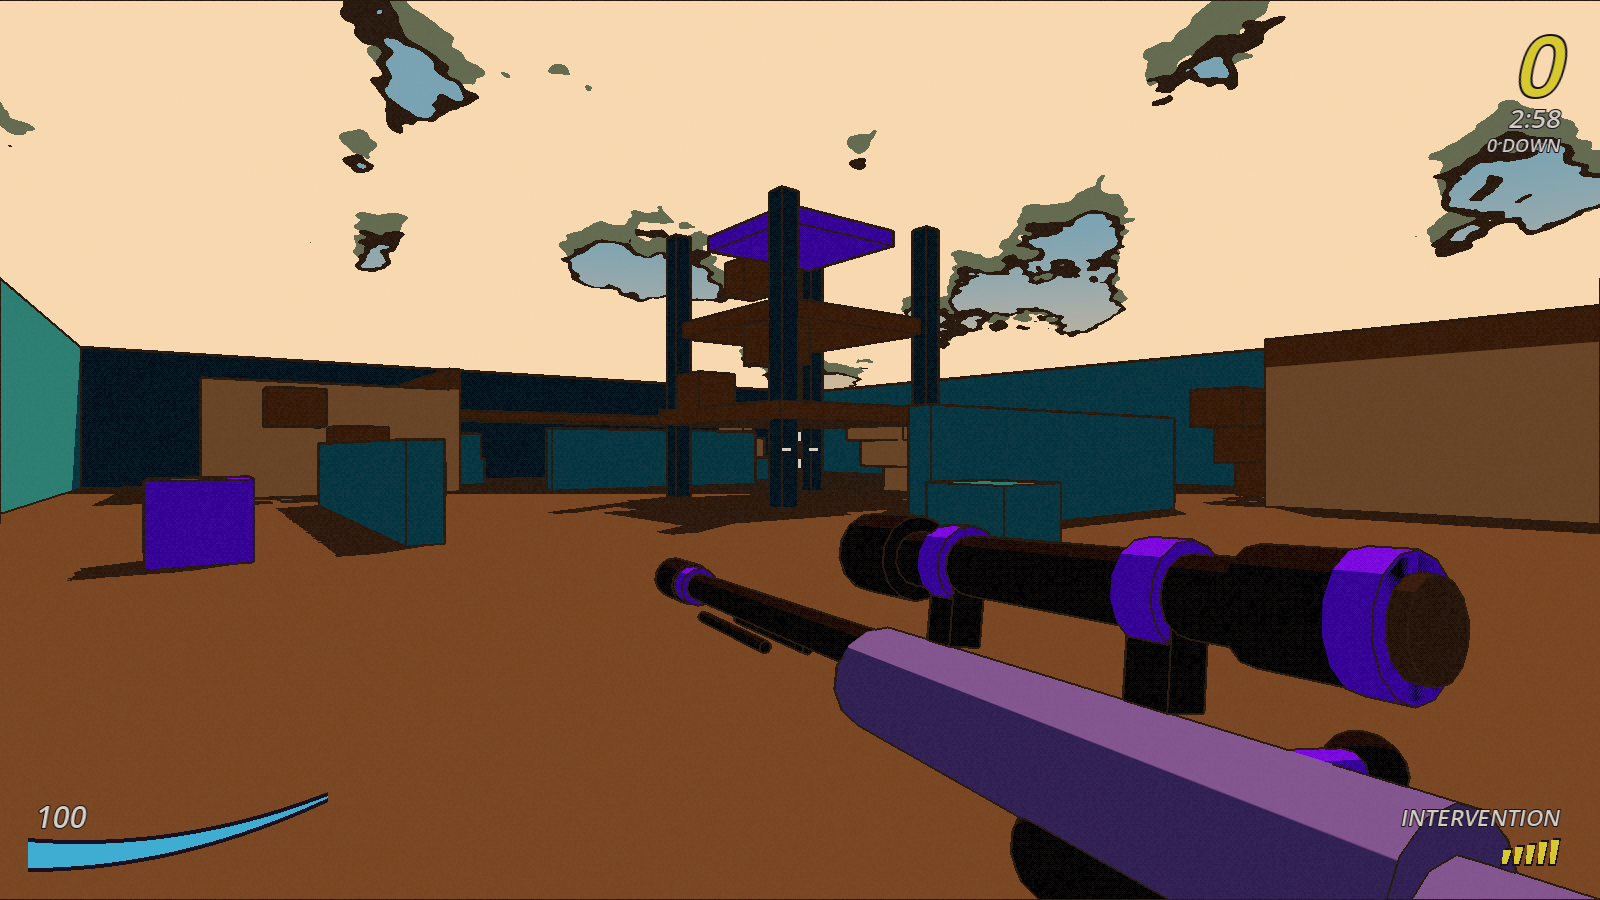
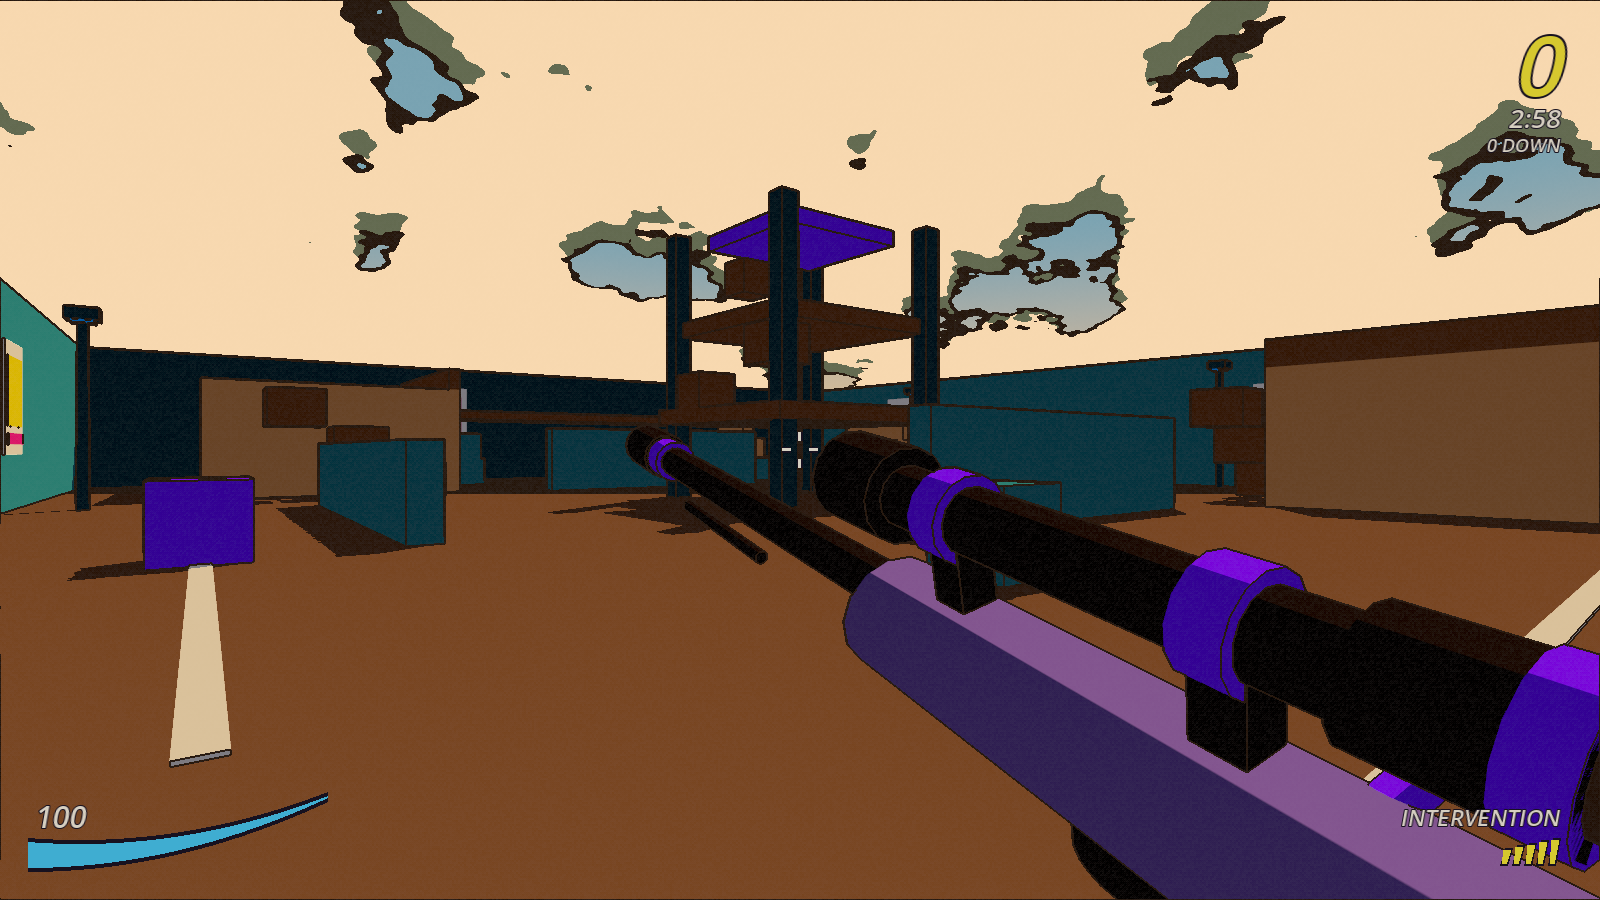
Music off, sniper reloads one round at a time, board spots (item/damage/coin/one safe spot), sniper pose from Sean's reference
- Audio.MUSIC_ENABLED = false (loops still build and test)
- WeaponDef.reload_per_round: start delay then one round per interval, a
  reload_round event with a shell_in sound each, ammo ticks fill one by one,
  the trigger interrupts once a round is in; 3 tests
- board: shield space type (one, opposite the start) grants a SHIELD item;
  damage (lose) spaces are eaten by a shield; markers and tile tone; tests
- viewmodel: hip pose from reference/Intervention_MW2.webp

diff --git a/tools/gen_board.py b/tools/gen_board.py
@@ -99,6 +99,8 @@ for i, (x, z) in enumerate(loop):
     typ = "start" if i == 0 else pick_type(False, "")
     if i in (1, 2) and typ == "lose":
         typ = "coin"
+    if i == L // 2 + 1:
+        typ = "shield"   # the one safe spot, opposite the start
     add("L%d" % i, (x, elev(i), z), typ, nxt)
 for name, bi, bj, side, y in branches:
     pts = branch_pts[name]

diff --git a/DECISIONS.md b/DECISIONS.md
@@ -106,3 +106,7 @@ Append-only. One line per assumption: date, the decision, the reason. Newest at 
 - 2026-09-18 — Sean: "revert the background for the board game, i liked the pink". The bay (water plane, rocks, buoys, island) is gone the same hour it went in; the board floats over the lilac-pink sky again. The space markers (coin, crate, spiked ball, "?" sign, start flag) stay.
 - 2026-09-18 — "Keep working, add details, same number of minigames" (Sean). Details added and screenshot-verified: board space markers (spinning coin, strapped crate, spiked ball, "?" sign, start flag, all bobbing), an 8-bar 128 BPM match music loop for the minigames (menu loop stays on the menu and board), arena dressing as non-colliding decor in the layout tables (six wall posters as paper + print + stripe, five lamp posts with glowing heads, road paint down the lanes, hazard stripes on the first deck; the pit gets three posters and two lamps), a dusk palette map "pit" for LAST STAND (hot orange sky over dark teal walls) through the `_palette_map()` hook with the environment now reading every sky key from that map, and a `tagline` per manifest drawn under GET READY (MOST KILLS WINS / HEADSHOTS COUNT DOUBLE / ONE LIFE. LAST ONE STANDING WINS). The AR was not touched, on his word.
 - 2026-09-18 — Sniper hip pose after four iterations with him: positive yaw (+25°) turns the muzzle left and swings the stock away right, so the scope is seen along its side with all its rings instead of into the eyepiece; position (0.26, −0.24, −0.50), pitch −3°, roll −8°. Negative yaw had been pointing the eyepiece at the camera.
+- 2026-09-18 — Sean: music off for now. `Audio.MUSIC_ENABLED = false`; the two loops still build and test so switching them back on is one constant.
+- 2026-09-18 — Sniper reload is one round at a time (Sean): `reload_per_round` on the weapon, `reload_start_ticks` 22 then `reload_round_ticks` 26 per round (5 rounds ≈ 2.5 s, the same total as the old 156-tick swap), each round is a `reload_round` event with its own "shell_in" sound, the ammo ticks fill one by one because they read the live count, and the trigger interrupts the reload once at least one round is in. State stays rollback-safe: the only new state is the same `reload_until_tick` reused per round. Three weapon-logic tests cover it; the AR keeps its magazine swap.
+- 2026-09-18 — Board spots (Sean's list): item spot (crate marker, gives a random item), damage spot (spiked-ball marker, −3 coins, or eaten by a shield), coin spot (+3), and exactly one safe spot (`shield` type, cyan tile with a dome marker) opposite the start that hands out a SHIELD you carry until the next bomb or damage spot hits you: that is the "invulnerable to damage" spot. The event spot (teleport) stays. Generated into BOMBA BAY by `tools/gen_board.py`; tested.
+- 2026-09-18 — Sniper hip pose copied from `reference/Intervention_MW2.webp` (his file): rear-right-top view, eyepiece close at the right, muzzle up-left, canted 16° so the scope top and the bolt show; position (0.25, −0.21, −0.38), pitch +7°, yaw +27°.

diff --git a/README.md b/README.md
@@ -23,7 +23,8 @@ With no arguments the main menu opens: HOST LAN, HOST ONLINE (a friend code thro
 relay, default `tomfol.io:8890`, changeable in SETTINGS), JOIN (a friend code or address:port),
 LINE (conditioner profile for direct joins), SETTINGS (name, sensitivity, volumes), BOTS +/−,
 START MATCH (the board, a random minigame each round) or QUICK ARENA. FPS controls: WASD, Space
-jump, LMB fire, RMB scope, 1/2/Q weapons, R reload, LMB switches who you watch when you are
+jump, LMB fire, RMB scope, 1/2/Q weapons, R reload (the sniper loads one round at a time; the
+trigger interrupts it), LMB switches who you watch when you are
 out in LAST STAND, Esc pauses (resume, settings, leave), F5
 reloads `tuning/*.json` in debug builds. Board controls: click ROLL, a fork button, an item
 button and then a player row, or Space / A D / 1 2 / Enter. Sound is synthesised at startup;
@@ -37,7 +38,9 @@ A full match from a shell: `-- --host --bots=2 --start --board --autoplay --boar
 minigame is drawn from `minigames/*/manifest.json` each round: ARENA, SNIPERS or LAST STAND;
 `--minigame=snipers` pins it); the lobby's START MATCH does the same for humans, QUICK ARENA
 skips the board. The board is BOMBA BAY, 65 spaces with four branches, generated by
-`tools/gen_board.py`; `--board_overview` frames all of it for a screenshot.
+`tools/gen_board.py`; `--board_overview` frames all of it for a screenshot. Spots: coin (+3),
+item (a random item), damage (−3 coins, a spiked ball), event (teleport, "?"), and one safe
+spot (cyan dome) that hands out a SHIELD which eats the next bomb or damage spot.
 
 Useful flags after `--`: `--autoplay` (a bot drives your seat), `--seed=N`, `--soak=SECONDS`
 (quit and write `reports/<label>_summary.json` + `_traj.csv`), `--report=LABEL`, `--expect=N`

diff --git a/STATUS.md b/STATUS.md
@@ -151,7 +151,7 @@ Cost: host tick loop 2.4–2.8 ms mean with three seats; client tick loop p95 4 
   (BOT TANGERINE 1 Bomba 14 coins, client 20, bot 15, host 11), 0 errors either side. Six
   seats headless, 3 rounds on FIGURE EIGHT (LAST STAND ×2 with 6 seats, SNIPERS): 0 errors.
 
-Numbers: `tools/test.sh` 70 tests, 9939 assertions, 89 scripts compiled, 0 failures. Headless
+Numbers: `tools/test.sh` 73 tests, 9973 assertions, 89 scripts compiled, 0 failures. Headless
 host + 2 bots, 2 rounds with 8 s minigames: round 1 ARENA (2 weapons), round 2 SNIPERS (1
 weapon, one headshot kill scored 2), board → minigame → rewards → board → minigame → finish, log
 24 lines, 0 warnings, 0 errors. Headless LAST STAND with 4 seats: 2 kills at ticks 394 and 608,
@@ -222,6 +222,13 @@ under GET READY, the sniper held low and across with the whole scope in frame. T
 the board went in and came out on his note (pink sky stays). The AR was left alone on his word.
 Frames: `board_turn.png`, `arena_spectator_sky.png`, `last_stand_pit.png`, `snipers_intro.png`,
 `arena_hip_sniper.png`.
+
+Fifth round: music off (one constant), the sniper reloads one round at a time with a
+"shell_in" sound per round (104 ms, centroid 2.2 kHz) and the ammo ticks filling one by one,
+the trigger interrupts the reload once a round is in (3 new weapon-logic tests), the board
+has item / damage / coin spots plus one safe spot that hands out a SHIELD (blocks the next
+bomb or damage spot; tested), and the sniper hip pose is copied from his
+`reference/Intervention_MW2.webp`. 73 tests, 9973 assertions.
 
 ### Bugs found and fixed today (all measured before and after)
 
